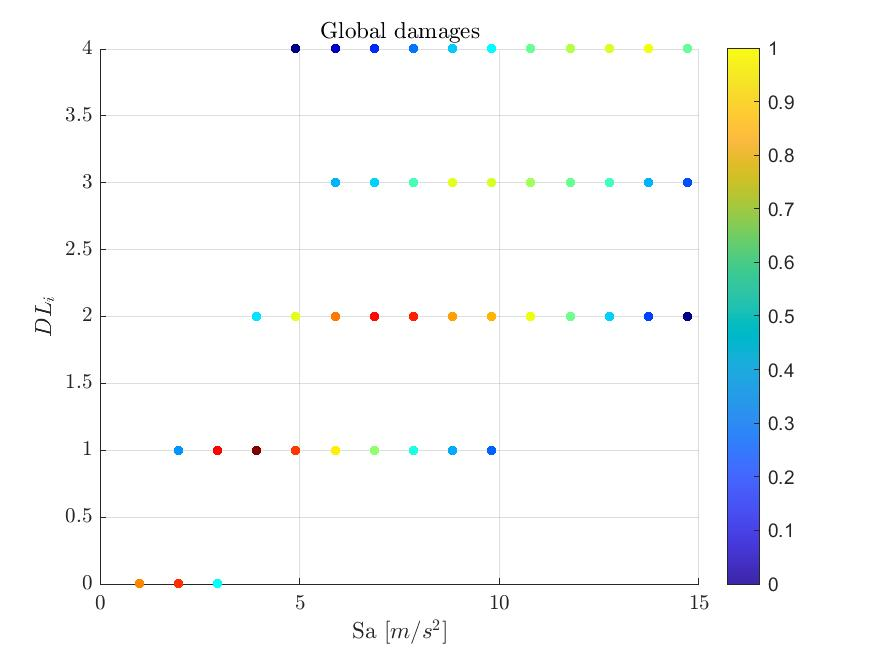
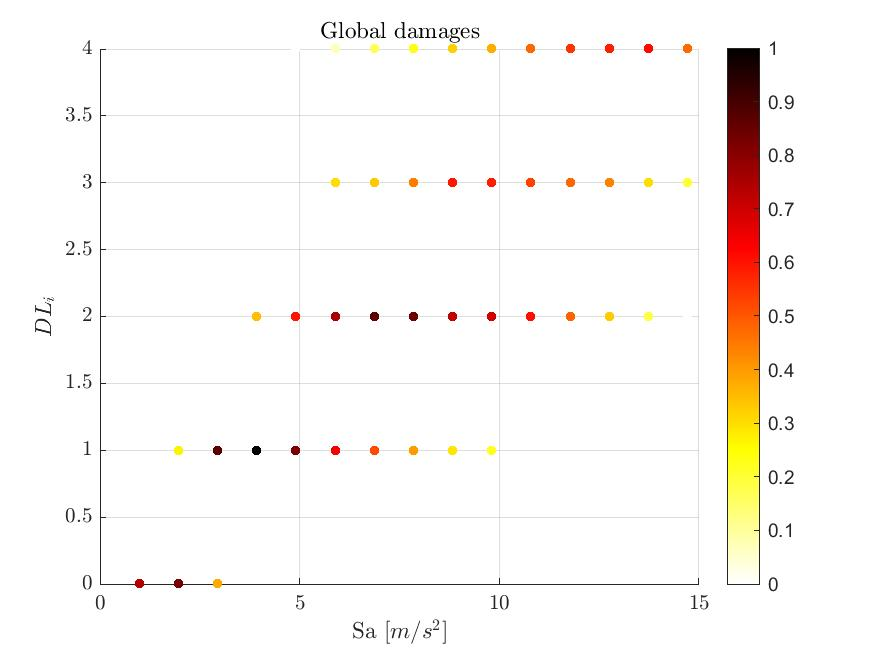
update graphs

diff --git a/damages_scatter_density_rig.m b/damages_scatter_density_rig.m
@@ -70,6 +70,8 @@ densityPlotScatter([Sa'; local_N_DL'], 'Sa $[m/s^2]$', '$DL_i$', 'Local damages,
 saveas(gcf,'rigid\results from scatter density\Local damages, north fecade.jpg')
 densityPlotScatter([Sa'; local_S_DL'], 'Sa $[m/s^2]$', '$DL_i$', 'Local damages, south fecade')
 saveas(gcf,'rigid\results from scatter density\Local damages, south fecade.jpg')
+densityPlotScatter([Sa'; maxLocal], 'Sa $[m/s^2]$', '$DL_i$', 'Max local damages')
+saveas(gcf,'rigid\results from scatter density\Max local damages.jpg')
 
 % Macro scale
 densityPlotScatter([Sa'; macro_E_DL'], 'Sa $[m/s^2]$', '$DL_i$', 'Macro damages, east fecade')
@@ -80,6 +82,8 @@ densityPlotScatter([Sa'; macro_N_DL'], 'Sa $[m/s^2]$', '$DL_i$', 'Macro damages,
 saveas(gcf,'rigid\results from scatter density\Macro damages, north fecade.jpg')
 densityPlotScatter([Sa'; macro_S_DL'], 'Sa $[m/s^2]$', '$DL_i$', 'Macro damages, south fecade')
 saveas(gcf,'rigid\results from scatter density\Macro damages, south fecade.jpg')
+densityPlotScatter([Sa'; maxMacro], 'Sa $[m/s^2]$', '$DL_i$', 'Max macro damages')
+saveas(gcf,'rigid\results from scatter density\Max macro damages.jpg')
 
 % Global scale
 densityPlotScatter([Sa'; global_DL'], 'Sa $[m/s^2]$', '$DL_i$', 'Global damages')
@@ -105,6 +109,7 @@ function graph = densityPlotScatter(X,xLabel,yLabel,graphTitle)
     ylabel(yLabel)
     title(graphTitle)
     grid on
+    colormap(flipud(hot))
     colorbar
 end
 

diff --git a/densityScatter.m b/densityScatter.m
@@ -38,7 +38,7 @@ function [d, h] = densityScatter(X,param)
 %
 % default values
 
-plotting = 1; filterFactor = 0.3; colMap = flipud(hot); markerSize = 20;
+plotting = 1; filterFactor = 0.3; colMap = hot; markerSize = 20;
 % rewrite default parameters if needed
 if nargin == nargin(mfilename)
   for j = 1:size(param,1), eval([param{j,1},'= param{j,2};']); end
@@ -56,7 +56,7 @@ close(h)
 % normalize density measure
 maxd = max(d); mind = min(d); d = (d-mind)/(maxd-mind);
 if plotting % plotting option
-  T = linspace(1,0,size(colMap,1));
+  T = linspace(0,1,size(colMap,1));
   col = interp1(T, colMap, d);
   if     m == 3
     h = scatter3(X(1,:),X(2,:),X(3,:),markerSize,col,'filled');

diff --git a/scatplot.m b/scatplot.m
@@ -209,7 +209,7 @@ return
 %~~~~~~~~~~ Graf Scatter Plot ~~~~~~~~~~~
 function varargout = gsp(x,y,c,ms)
 %Graphs scattered poits
-map = colormap;
+map = colormap(flipud(hot));
 ind = fix((c-min(c))/(max(c)-min(c))*(size(map,1)-1))+1;
 h = [];
 %much more efficient than matlab's scatter plot
